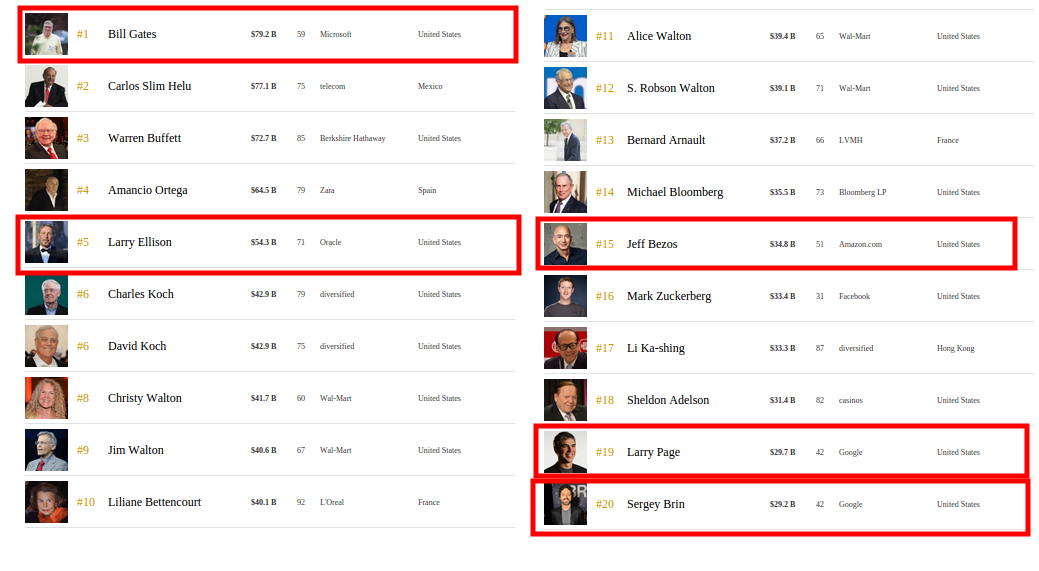
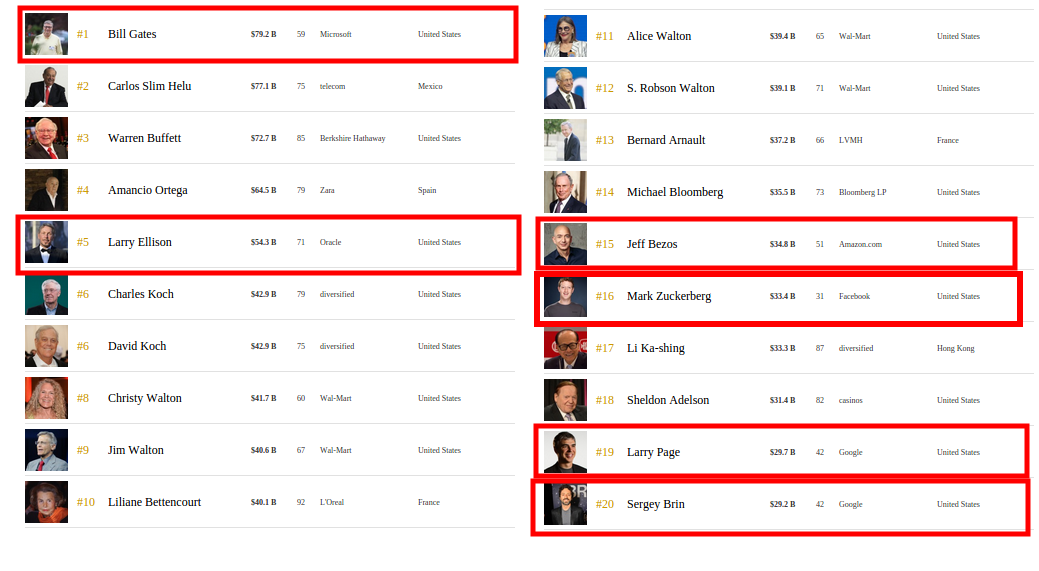
1) Fix for missing Zuck highlight.

Changed region(s): [[0.4928, 0.4764, 0.9856, 0.5954]]

diff --git a/With Great Power/index.html b/With Great Power/index.html
@@ -206,7 +206,7 @@
       <h1>Do It Live</h1>
     </section>
     <section class="red">
-      <h2 class="headline">(0)1908 410557</h2>
+      <h2 class="headline">(0)1475 866059</h2>
     </section>
     <section data-background-image="images/spiderverse.jpg">
       <h1>We Are All Spideys</h1>
@@ -279,7 +279,7 @@
     <section>
       <h3>How likely are you to recommend this talk to a friend or colleague?</h3>
       <h2 style="margin-top: 1em;">Text 1-10 with your comments:</h2>
-      <h1>(0)1908 410557</h1>
+      <h1>(0)1475 866059</h1>
     </section>
     <section class="red">
       <img class="unstyled" src="images/twilio/Twilio_logo_white.png" />
@@ -289,7 +289,7 @@
       </div>
       <div class="title">
         <h3>Text 1-10 with your comments:</h3>
-        <h3>(0)1908 410557</h3>
+        <h3>(0)1475 866059</h3>
       </div>
     </section>
   </div>

diff --git a/With Great Power/README.md b/With Great Power/README.md
@@ -34,6 +34,10 @@ England.
   - Not only would the scenery inspire me to make my home in the greatest city
     in the world, but the story would be one that would be one that would have
     pronounced effect on me as I started a career in programming.
+  - It's a lesson all developers would do well to learn, lest we suffer
+    Spider-man's same fate
+  - For make no mistake, the great power we possess carries the same
+    responsibility as Spidey.
 - Agenda
   - Intro
     - Bio
